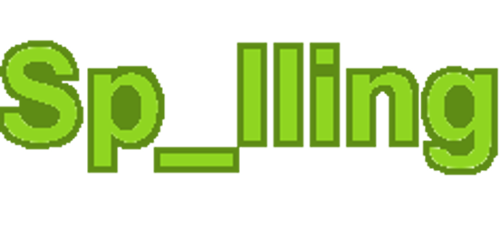
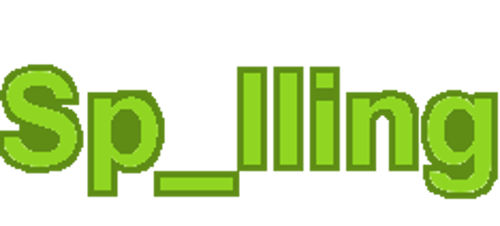
Spelling Page Completed

diff --git a/spelling.html b/spelling.html
@@ -17,35 +17,31 @@
             <a href="construction.html" class="btnNav">About Us</a>
         </nav>
         <div id="mainContent">
-            <img class="pageTitle2" src="images/" Alt="Spelling">
+            <img class="pageTitle" src="images/spell.png" Alt="Spelling">
             <table class="btnRadio">
                 <tr>
                     <th><input type="radio" name="grades" id="firstGrade">
                         <label for="firstGrade" class="btn">
                             <p>1st Grade</p>
-                            <img class="btnIcon2" src="images/1stGradeAdd.png" alt="First Grade"><img class="btnIcon2" src="images/1stGradeSubtract.png" alt="Addition & Subtraction">
+                            <img class="btnIcon" src="images/1stGradeSpelling.png" alt="First Grade Spelling">
                         </label>
                     </th>
                     <th><input type="radio" name="grades" id="secondGrade">
                         <label for="secondGrade" class="btn">
                             <p>2nd Grade</p>
-                            <img class="btnIcon2" src="images/2ndGradeAdd.png" alt="Second Grade"><img class="btnIcon2" src="images/2ndGradeSubtract.png" alt="Addition & Subtraction">
+                            <img class="btnIcon" src="images/2ndGradeSpelling.png" alt="Second Grade Spelling">
                         </label>
                     </th>
                     <th><input type="radio" name="grades" id="thirdGrade">
                         <label for="thirdGrade" class="btn">
                             <p>3rd Grade</p>
-                            <img class="btnIcon2" src="images/3rdGradeAdd.png" alt="Third Grade"><img class="btnIcon2" src="images/3rdGradeSubtract.png" alt="Addition & Subtraction">
+                            <img class="btnIcon" src="images/3rdGradeSpelling.png" alt="Third Grade Spelling">
                         </label>
                     </th>
                     <th id="gamePlay">
                         <table>
                             <tr>
-                                <th id="problem1">?</th>
-                            </tr>
-                            <tr>
-                                <th id="operator">+</th>
-                                <th id="problem2">?</th>
+                                <th id="problem1" class="spelling">?</th>
                             </tr>
                             <tr>
                                 <th><input id="userAnswer" type="number">

diff --git a/css/styles.css b/css/styles.css
@@ -58,6 +58,10 @@
 #title {
     max-width: 100%;
     align-content: center;
+    border-top-right-radius: 35px;
+    border-top-left-radius: 35px;
+    -moz-border-top-right-radius: 35px;
+    -webkit-border-top-left-radius: 35px;
 }
 
 #userAnswer {
@@ -106,7 +110,7 @@
 }
 
 .btnIcon {
-    max-width: 75%;  
+    max-width: 75%;
 }
 
 .btnIcon2 {
@@ -155,7 +159,7 @@
 }
 
 .pageTitle2 {
-    max-height: 185px;
+    max-height: 170px;
 }
 
 a {
@@ -244,6 +248,12 @@ th#problem1.divide {
     left: 25px; 
 }
 
+th#problem1.spelling {
+    position: relative;
+    float: right;
+    right: 2em;
+}
+
 @media only screen and (max-width: 500px) {
     #answerBtn {
         width: 65px;
@@ -288,19 +298,24 @@ th#problem1.divide {
     }
     
     #problem1 {
-    position: relative;
-    right: 1.6em;
-    float: right;
+        position: relative;
+        right: 1.6em;
+        float: right;
     }
     
     #problem2 {
-    position: relative;
-    right: 1.6em;
-    float: right;
+        position: relative;
+        right: 1.6em;
+        float: right;
     }
     
     #title {
-       height: 75px; 
+        height: 100%;
+        width: 100%;
+        border-top-right-radius: 15px;
+        border-top-left-radius: 15px;
+        -moz-border-top-right-radius: 15px;
+        -webkit-border-top-left-radius: 15px;
     }
     
     .btn {
@@ -323,6 +338,13 @@ th#problem1.divide {
     .pageTitle2 {
         height: 100px;
         max-width: 100%;
+    }
+    
+    footer {
+        border-bottom-right-radius: 15px;
+        border-bottom-left-radius: 15px;
+        -moz-border-bottom-right-radius: 15px;
+        -webkit-border-bottom-left-radius: 15px;
     }
     
     input#userAnswer.divide {
@@ -352,4 +374,10 @@ th#problem1.divide {
     color: #67ba06;
     font-size: 50px;    
     }
+    
+    th#problem1.spelling {
+        position: relative;
+        float: right;
+        right: 2.5em;
+    }  
 }

diff --git a/shapesColors.html b/shapesColors.html
@@ -17,7 +17,7 @@
             <a href="construction.html" class="btnNav">About Us</a>
         </nav>
         <div id="mainContent">
-            <img class="pageTitle2" src="images/" Alt="Shapes & Colors">
+            <img class="pageTitle" src="images/" Alt="Shapes & Colors">
             <table class="btnRadio">
                 <tr>
                     <th><input type="radio" name="grades" id="firstGrade">
